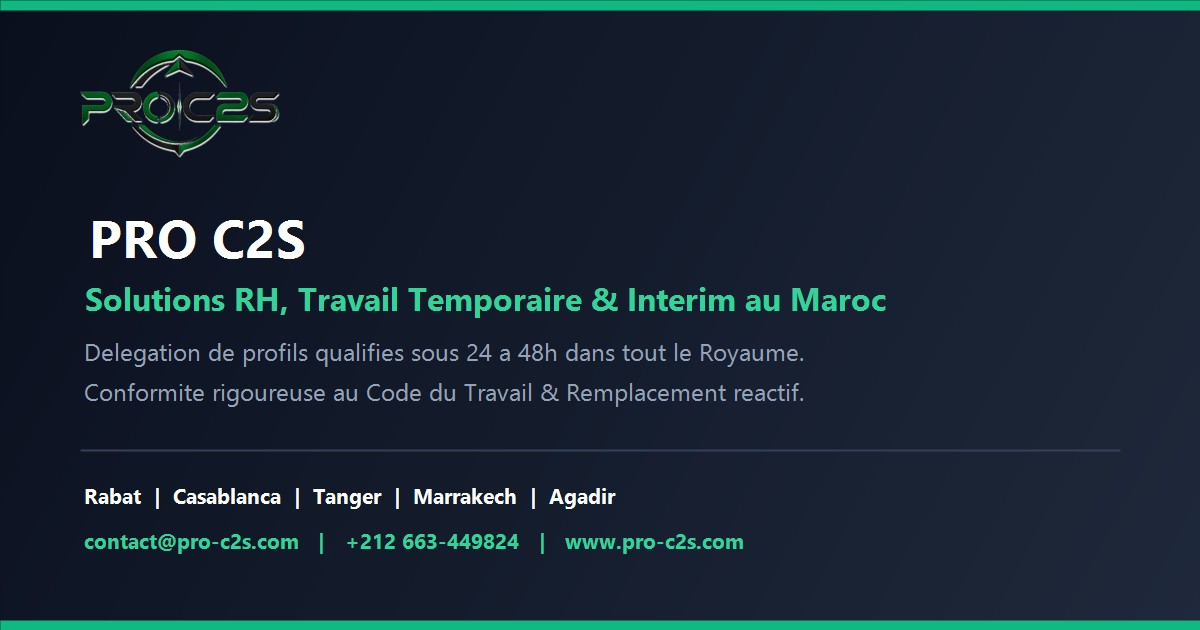
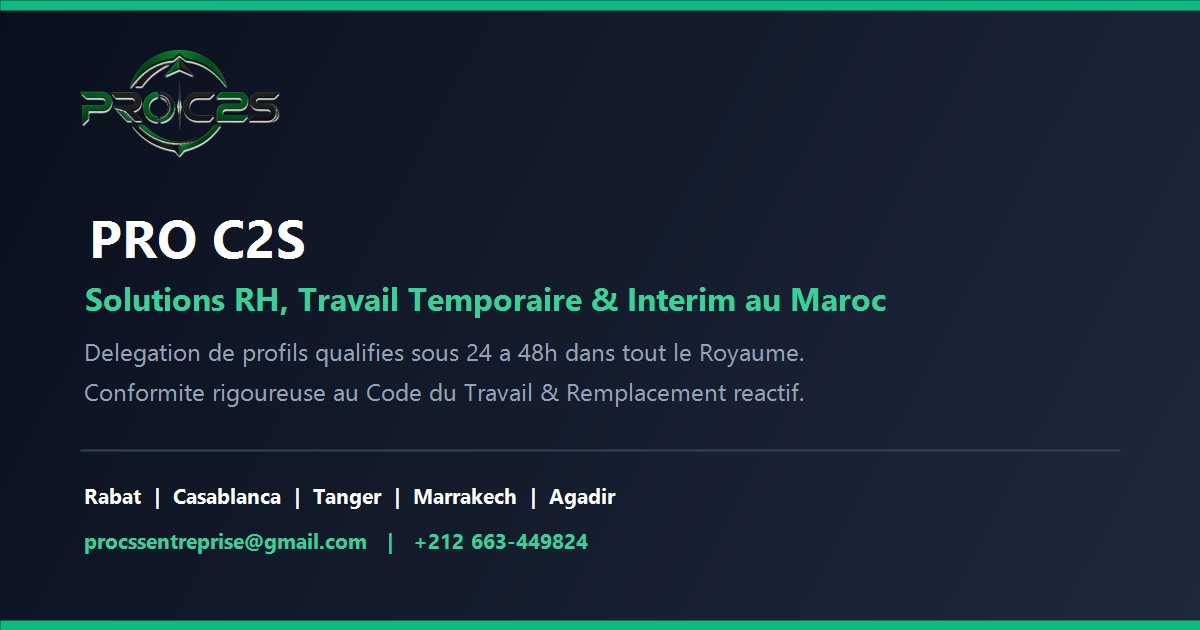
Correction exacte : retablissement de l'email officiel procssentreprise@gmail.com et harmonisation des horaires 08h30 - 17h30 (Lun-Ven)

Changed region(s): [[0.0617, 0.8444, 0.6167, 0.8746]]

diff --git a/index.html b/index.html
@@ -54,7 +54,7 @@
       "image": "https://proo-c2s.github.io/proo-c2s/image/logo.png",
       "foundingDate": "2017",
       "telephone": "+212663449824",
-      "email": "contact@pro-c2s.com",
+      "email": "procssentreprise@gmail.com",
       "address": {
         "@type": "PostalAddress",
         "streetAddress": "Imm. 69, 4ème Étage, Appt 04, Av. Patrice Lumumba, Hassan",
@@ -1985,7 +1985,7 @@
             <h4 style="margin-top: 15px;" data-i18n="priv_h4">4. Services tiers</h4>
             <p data-i18n="priv_p4">Ce site fait appel à des services tiers : EmailJS (envoi du formulaire de contact), WhatsApp (échanges et envoi de CV), Google Maps et Google Fonts (affichage). Ces services peuvent déposer leurs propres cookies ou traiter votre adresse IP.</p>
             <h4 style="margin-top: 15px;" data-i18n="priv_h5">5. Vos droits</h4>
-            <p data-i18n="priv_p5">Conformément à la loi n° 09-08 relative à la protection des personnes physiques à l'égard du traitement des données à caractère personnel, vous disposez d'un droit d'accès, de rectification et d'opposition. Pour l'exercer, écrivez-nous à <a href="mailto:contact@pro-c2s.com">contact@pro-c2s.com</a>. Vous pouvez également saisir la CNDP (<a href="https://www.cndp.ma" target="_blank" rel="noopener noreferrer">www.cndp.ma</a>).</p>
+            <p data-i18n="priv_p5">Conformément à la loi n° 09-08 relative à la protection des personnes physiques à l'égard du traitement des données à caractère personnel, vous disposez d'un droit d'accès, de rectification et d'opposition. Pour l'exercer, écrivez-nous à <a href="mailto:procssentreprise@gmail.com">procssentreprise@gmail.com</a>. Vous pouvez également saisir la CNDP (<a href="https://www.cndp.ma" target="_blank" rel="noopener noreferrer">www.cndp.ma</a>).</p>
         </div>
     </div>
 </div>
@@ -2036,7 +2036,7 @@
                         <span class="ecm-sep">/</span>
                         <a href="tel:+212663449824">06 63 44 98 24</a>
                     </div>
-                    <span class="ecm-card-sub" data-i18n="c_phone_hours"><i class="fa-regular fa-clock"></i> Lun - Ven : 08h30 - 18h00</span>
+                    <span class="ecm-card-sub" data-i18n="c_phone_hours"><i class="fa-regular fa-clock"></i> Lun - Ven : 08h30 - 17h30</span>
                 </div>
             </div>
 
@@ -2048,7 +2048,7 @@
                 <div class="ecm-card-body">
                     <span class="ecm-card-label" data-i18n="c_email">Courriel Officiel</span>
                     <div class="ecm-card-val ecm-email-val">
-                        <a href="mailto:contact@pro-c2s.com">contact@pro-c2s.com</a>
+                        <a href="mailto:procssentreprise@gmail.com">procssentreprise@gmail.com</a>
                     </div>
                     <span class="ecm-card-sub" data-i18n="c_email_sub"><i class="fa-solid fa-bolt"></i> Réponse sous 24h ouvrées</span>
                 </div>
@@ -2237,7 +2237,7 @@
             <h4 data-i18n="f_contact">Contact</h4>
             <p><i class="fa-solid fa-location-dot"></i> Imm. 69, 4ème Étage, Hassan - Rabat</p>
             <p><i class="fa-solid fa-phone"></i> <a href="tel:+212520704830">05 20 70 48 30</a> / <a href="tel:+212663449824">06 63 44 98 24</a></p>
-            <p><i class="fa-solid fa-envelope"></i> <a href="mailto:contact@pro-c2s.com">contact@pro-c2s.com</a></p>
+            <p><i class="fa-solid fa-envelope"></i> <a href="mailto:procssentreprise@gmail.com">procssentreprise@gmail.com</a></p>
         </div>
     </div>
     <div class="copyright">
@@ -2284,7 +2284,7 @@
         "c_addr": "Adresse",
         "c_addr_val_short": "Imm. 69, Av. Patrice Lumumba, Hassan - Rabat",
         "c_phone": "Téléphone",
-        "c_phone_hours": "Lun - Ven : 08h30 - 18h00",
+        "c_phone_hours": "Lun - Ven : 08h30 - 17h30",
         "c_email": "Email",
         "c_email_sub": "Réponse sous 24h",
         "c_website": "Site web",
@@ -2638,7 +2638,7 @@
         "priv_h4": "4. Services tiers",
         "priv_p4": "Ce site fait appel à des services tiers : EmailJS (envoi du formulaire de contact), WhatsApp (échanges et envoi de CV), Google Maps et Google Fonts (affichage). Ces services peuvent déposer leurs propres cookies ou traiter votre adresse IP.",
         "priv_h5": "5. Vos droits",
-        "priv_p5": "Conformément à la loi n° 09-08 relative à la protection des personnes physiques à l'égard du traitement des données à caractère personnel, vous disposez d'un droit d'accès, de rectification et d'opposition. Pour l'exercer, écrivez-nous à <a href=\"mailto:contact@pro-c2s.com\">contact@pro-c2s.com</a>. Vous pouvez également saisir la CNDP (<a href=\"https://www.cndp.ma\" target=\"_blank\" rel=\"noopener noreferrer\">www.cndp.ma</a>).",
+        "priv_p5": "Conformément à la loi n° 09-08 relative à la protection des personnes physiques à l'égard du traitement des données à caractère personnel, vous disposez d'un droit d'accès, de rectification et d'opposition. Pour l'exercer, écrivez-nous à <a href=\"mailto:procssentreprise@gmail.com\">procssentreprise@gmail.com</a>. Vous pouvez également saisir la CNDP (<a href=\"https://www.cndp.ma\" target=\"_blank\" rel=\"noopener noreferrer\">www.cndp.ma</a>).",
         "cv_m_title": "Espace Recrutement & CV",
         "cv_m_sub": "Enregistrement direct dans la Base de Recrutement RH",
         "cv_m_name_lbl": "Nom et prénom *",
@@ -3047,7 +3047,7 @@
         "priv_h4": "4. Third-Party Services",
         "priv_p4": "This website integrates third-party tools: EmailJS (secure form submission), WhatsApp (direct messaging & CV submission), Google Maps, and Google Fonts. These services may place technical cookies or process standard IP requests.",
         "priv_h5": "5. Your Data Rights",
-        "priv_p5": "Pursuant to Moroccan Law No. 09-08 on personal data protection, you retain full rights of access, rectification, and objection regarding your personal information. To exercise these rights, please email us at <a href=\"mailto:contact@pro-c2s.com\">contact@pro-c2s.com</a>. You may also contact the Moroccan National Data Protection Commission (<a href=\"https://www.cndp.ma\" target=\"_blank\" rel=\"noopener noreferrer\">www.cndp.ma</a>).",
+        "priv_p5": "Pursuant to Moroccan Law No. 09-08 on personal data protection, you retain full rights of access, rectification, and objection regarding your personal information. To exercise these rights, please email us at <a href=\"mailto:procssentreprise@gmail.com\">procssentreprise@gmail.com</a>. You may also contact the Moroccan National Data Protection Commission (<a href=\"https://www.cndp.ma\" target=\"_blank\" rel=\"noopener noreferrer\">www.cndp.ma</a>).",
         "cv_m_title": "Recruitment Portal & CV Drop",
         "cv_m_sub": "Direct registration into our Central HR Recruitment Database",
         "cv_m_name_lbl": "Full Name *",

diff --git a/mentions-legales.html b/mentions-legales.html
@@ -117,8 +117,8 @@
         <tr><th data-i18n="t_agr">Agrément Travail Temporaire</th><td><strong style="color:#047857;">N° 2017/RH/482</strong> (Ministère de l'Inclusion Économique, de la Petite Entreprise, de l'Emploi et des Compétences)</td></tr>
         <tr><th data-i18n="t_siege">Siège social</th><td>Imm. 69, 4ème Étage, Appt 04, Av. Patrice Lumumba, Hassan - Rabat, Maroc</td></tr>
         <tr><th data-i18n="t_tel">Téléphone standard</th><td><a href="tel:+212520704830">+212 (0) 5 20 70 48 30</a> / <a href="tel:+212663449824">+212 (0) 6 63 44 98 24</a></td></tr>
-        <tr><th data-i18n="t_email">Courriel professionnel</th><td><a href="mailto:contact@pro-c2s.com">contact@pro-c2s.com</a></td></tr>
-        <tr><th data-i18n="t_horaires">Horaires d'ouverture</th><td>Lundi – Vendredi : 08h30 – 18h00 | Samedi : 09h00 – 13h00</td></tr>
+        <tr><th data-i18n="t_email">Courriel professionnel</th><td><a href="mailto:procssentreprise@gmail.com">procssentreprise@gmail.com</a></td></tr>
+        <tr><th data-i18n="t_horaires">Horaires d'ouverture</th><td>Lundi – Vendredi : 08h30 – 17h30 | Samedi : 09h00 – 13h00</td></tr>
     </table>
 
     <h2 data-i18n="sec2_title"><i class="fa-solid fa-server"></i> 2. Hébergement du site</h2>
@@ -143,7 +143,7 @@
     </ul>
 
     <p data-i18n="cndp_droits"><strong>Vos droits (Articles 7, 8 et 9 de la Loi 09-08) :</strong></p>
-    <p data-i18n="cndp_droits_desc">Vous disposez à tout moment d'un droit individuel d'accès, d'information, de rectification et d'opposition au traitement de vos données personnelles. Vous pouvez exercer ces droits simplement en adressant un email accompagné d'un justificatif d'identité à : <a href="mailto:contact@pro-c2s.com"><strong>contact@pro-c2s.com</strong></a> ou par courrier recommandé au siège social de PRO C2S.</p>
+    <p data-i18n="cndp_droits_desc">Vous disposez à tout moment d'un droit individuel d'accès, d'information, de rectification et d'opposition au traitement de vos données personnelles. Vous pouvez exercer ces droits simplement en adressant un email accompagné d'un justificatif d'identité à : <a href="mailto:procssentreprise@gmail.com"><strong>procssentreprise@gmail.com</strong></a> ou par courrier recommandé au siège social de PRO C2S.</p>
     <p data-i18n="cndp_reclam">Vous pouvez également vous adresser à la <strong>Commission Nationale de contrôle de la protection des Données à caractère Personnel (CNDP)</strong> via son portail officiel : <a href="https://www.cndp.ma" target="_blank" rel="noopener noreferrer">www.cndp.ma</a>.</p>
 
     <h2 id="politique-confidentialite" data-i18n="sec5_title"><i class="fa-solid fa-cookie-bite"></i> 5. Politique de Cookies & Confidentialité</h2>
@@ -201,7 +201,7 @@
             cndp_duree_cv: "Données des candidats & CVs : 24 mois maximum à compter de la date de réception ou du dernier contact.",
             cndp_duree_devis: "Données clients & devis : 36 mois maximum à compter de la fin de la relation commerciale.",
             cndp_droits: "Vos droits (Loi 09-08) :",
-            cndp_droits_desc: "Droit d'accès, de rectification et d'opposition en écrivant avec copie de pièce d'identité à contact@pro-c2s.com.",
+            cndp_droits_desc: "Droit d'accès, de rectification et d'opposition en écrivant avec copie de pièce d'identité à procssentreprise@gmail.com.",
             cndp_reclam: "Vous pouvez également saisir la CNDP (Commission Nationale de contrôle de la protection des Données à caractère Personnel) : www.cndp.ma.",
             sec5_title: "5. Politique de Cookies & Confidentialité",
             sec5_p1: "Le site utilise uniquement des cookies fonctionnels essentiels et des statistiques anonymisées. Aucun partage de données à des fins publicitaires n'est effectué.",
@@ -250,7 +250,7 @@
             cndp_duree_cv: "Applicant records & CVs: Strictly retained up to 24 months from submission or last contact.",
             cndp_duree_devis: "Client inquiries & quotes: Strictly retained up to 36 months.",
             cndp_droits: "Your Rights (Law 09-08):",
-            cndp_droits_desc: "Right to access, modify, and delete your data by writing with ID proof to contact@pro-c2s.com.",
+            cndp_droits_desc: "Right to access, modify, and delete your data by writing with ID proof to procssentreprise@gmail.com.",
             cndp_reclam: "Complaints may also be filed with CNDP (National Commission for Personal Data Protection): www.cndp.ma.",
             sec5_title: "5. Cookie & Privacy Policy",
             sec5_p1: "The website uses strictly necessary functional cookies and anonymized performance statistics.",

diff --git a/offres/agent-accueil.html b/offres/agent-accueil.html
@@ -184,7 +184,7 @@
 
                 <div class="job-card-box" style="background:#f0fdf4;border-color:#bbf7d0;">
                     <h3 style="font-size:15px;color:#166534;margin-bottom:8px;font-weight:700;"><i class="fa-solid fa-headset"></i> Service Recrutement PRO C2S</h3>
-                    <p style="font-size:13px;color:#166534;margin-bottom:6px;">Lundi – Vendredi : 08h30 – 18h00</p>
+                    <p style="font-size:13px;color:#166534;margin-bottom:6px;">Lundi – Vendredi : 08h30 – 17h30</p>
                     <p style="font-size:13px;color:#166534;font-weight:700;">Tél : +212 (0) 5 20 70 48 30 / +212 (0) 6 63 44 98 24</p>
                 </div>
             </div>
@@ -209,8 +209,8 @@
             <div class="footer-links">
                 <h4>Contact Direct</h4>
                 <p><i class="fa-solid fa-phone"></i> +212 (0) 5 20 70 48 30 / +212 (0) 6 63 44 98 24</p>
-                <p><i class="fa-solid fa-envelope"></i> contact@pro-c2s.com</p>
-                <p><i class="fa-solid fa-clock"></i> Lun - Ven : 08h30 - 18h00</p>
+                <p><i class="fa-solid fa-envelope"></i> procssentreprise@gmail.com</p>
+                <p><i class="fa-solid fa-clock"></i> Lun - Ven : 08h30 - 17h30</p>
                 <p><i class="fa-solid fa-location-dot"></i> Imm. 69, Av. Patrice Lumumba, Hassan - Rabat</p>
             </div>
         </div>

diff --git a/offres/agent-brancardage.html b/offres/agent-brancardage.html
@@ -184,7 +184,7 @@
 
                 <div class="job-card-box" style="background:#f0fdf4;border-color:#bbf7d0;">
                     <h3 style="font-size:15px;color:#166534;margin-bottom:8px;font-weight:700;"><i class="fa-solid fa-headset"></i> Service Recrutement PRO C2S</h3>
-                    <p style="font-size:13px;color:#166534;margin-bottom:6px;">Lundi – Vendredi : 08h30 – 18h00</p>
+                    <p style="font-size:13px;color:#166534;margin-bottom:6px;">Lundi – Vendredi : 08h30 – 17h30</p>
                     <p style="font-size:13px;color:#166534;font-weight:700;">Tél : +212 (0) 5 20 70 48 30 / +212 (0) 6 63 44 98 24</p>
                 </div>
             </div>
@@ -209,8 +209,8 @@
             <div class="footer-links">
                 <h4>Contact Direct</h4>
                 <p><i class="fa-solid fa-phone"></i> +212 (0) 5 20 70 48 30 / +212 (0) 6 63 44 98 24</p>
-                <p><i class="fa-solid fa-envelope"></i> contact@pro-c2s.com</p>
-                <p><i class="fa-solid fa-clock"></i> Lun - Ven : 08h30 - 18h00</p>
+                <p><i class="fa-solid fa-envelope"></i> procssentreprise@gmail.com</p>
+                <p><i class="fa-solid fa-clock"></i> Lun - Ven : 08h30 - 17h30</p>
                 <p><i class="fa-solid fa-location-dot"></i> Imm. 69, Av. Patrice Lumumba, Hassan - Rabat</p>
             </div>
         </div>

diff --git a/offres/assistant-administratif.html b/offres/assistant-administratif.html
@@ -184,7 +184,7 @@
 
                 <div class="job-card-box" style="background:#f0fdf4;border-color:#bbf7d0;">
                     <h3 style="font-size:15px;color:#166534;margin-bottom:8px;font-weight:700;"><i class="fa-solid fa-headset"></i> Service Recrutement PRO C2S</h3>
-                    <p style="font-size:13px;color:#166534;margin-bottom:6px;">Lundi – Vendredi : 08h30 – 18h00</p>
+                    <p style="font-size:13px;color:#166534;margin-bottom:6px;">Lundi – Vendredi : 08h30 – 17h30</p>
                     <p style="font-size:13px;color:#166534;font-weight:700;">Tél : +212 (0) 5 20 70 48 30 / +212 (0) 6 63 44 98 24</p>
                 </div>
             </div>
@@ -209,8 +209,8 @@
             <div class="footer-links">
                 <h4>Contact Direct</h4>
                 <p><i class="fa-solid fa-phone"></i> +212 (0) 5 20 70 48 30 / +212 (0) 6 63 44 98 24</p>
-                <p><i class="fa-solid fa-envelope"></i> contact@pro-c2s.com</p>
-                <p><i class="fa-solid fa-clock"></i> Lun - Ven : 08h30 - 18h00</p>
+                <p><i class="fa-solid fa-envelope"></i> procssentreprise@gmail.com</p>
+                <p><i class="fa-solid fa-clock"></i> Lun - Ven : 08h30 - 17h30</p>
                 <p><i class="fa-solid fa-location-dot"></i> Imm. 69, Av. Patrice Lumumba, Hassan - Rabat</p>
             </div>
         </div>

diff --git a/offres/chauffeur-professionnel.html b/offres/chauffeur-professionnel.html
@@ -184,7 +184,7 @@
 
                 <div class="job-card-box" style="background:#f0fdf4;border-color:#bbf7d0;">
                     <h3 style="font-size:15px;color:#166534;margin-bottom:8px;font-weight:700;"><i class="fa-solid fa-headset"></i> Service Recrutement PRO C2S</h3>
-                    <p style="font-size:13px;color:#166534;margin-bottom:6px;">Lundi – Vendredi : 08h30 – 18h00</p>
+                    <p style="font-size:13px;color:#166534;margin-bottom:6px;">Lundi – Vendredi : 08h30 – 17h30</p>
                     <p style="font-size:13px;color:#166534;font-weight:700;">Tél : +212 (0) 5 20 70 48 30 / +212 (0) 6 63 44 98 24</p>
                 </div>
             </div>
@@ -209,8 +209,8 @@
             <div class="footer-links">
                 <h4>Contact Direct</h4>
                 <p><i class="fa-solid fa-phone"></i> +212 (0) 5 20 70 48 30 / +212 (0) 6 63 44 98 24</p>
-                <p><i class="fa-solid fa-envelope"></i> contact@pro-c2s.com</p>
-                <p><i class="fa-solid fa-clock"></i> Lun - Ven : 08h30 - 18h00</p>
+                <p><i class="fa-solid fa-envelope"></i> procssentreprise@gmail.com</p>
+                <p><i class="fa-solid fa-clock"></i> Lun - Ven : 08h30 - 17h30</p>
                 <p><i class="fa-solid fa-location-dot"></i> Imm. 69, Av. Patrice Lumumba, Hassan - Rabat</p>
             </div>
         </div>

diff --git a/offres/gestionnaire-paie.html b/offres/gestionnaire-paie.html
@@ -184,7 +184,7 @@
 
                 <div class="job-card-box" style="background:#f0fdf4;border-color:#bbf7d0;">
                     <h3 style="font-size:15px;color:#166534;margin-bottom:8px;font-weight:700;"><i class="fa-solid fa-headset"></i> Service Recrutement PRO C2S</h3>
-                    <p style="font-size:13px;color:#166534;margin-bottom:6px;">Lundi – Vendredi : 08h30 – 18h00</p>
+                    <p style="font-size:13px;color:#166534;margin-bottom:6px;">Lundi – Vendredi : 08h30 – 17h30</p>
                     <p style="font-size:13px;color:#166534;font-weight:700;">Tél : +212 (0) 5 20 70 48 30 / +212 (0) 6 63 44 98 24</p>
                 </div>
             </div>
@@ -209,8 +209,8 @@
             <div class="footer-links">
                 <h4>Contact Direct</h4>
                 <p><i class="fa-solid fa-phone"></i> +212 (0) 5 20 70 48 30 / +212 (0) 6 63 44 98 24</p>
-                <p><i class="fa-solid fa-envelope"></i> contact@pro-c2s.com</p>
-                <p><i class="fa-solid fa-clock"></i> Lun - Ven : 08h30 - 18h00</p>
+                <p><i class="fa-solid fa-envelope"></i> procssentreprise@gmail.com</p>
+                <p><i class="fa-solid fa-clock"></i> Lun - Ven : 08h30 - 17h30</p>
                 <p><i class="fa-solid fa-location-dot"></i> Imm. 69, Av. Patrice Lumumba, Hassan - Rabat</p>
             </div>
         </div>

diff --git a/offres/maitre-nageur-sauveteur.html b/offres/maitre-nageur-sauveteur.html
@@ -184,7 +184,7 @@
 
                 <div class="job-card-box" style="background:#f0fdf4;border-color:#bbf7d0;">
                     <h3 style="font-size:15px;color:#166534;margin-bottom:8px;font-weight:700;"><i class="fa-solid fa-headset"></i> Service Recrutement PRO C2S</h3>
-                    <p style="font-size:13px;color:#166534;margin-bottom:6px;">Lundi – Vendredi : 08h30 – 18h00</p>
+                    <p style="font-size:13px;color:#166534;margin-bottom:6px;">Lundi – Vendredi : 08h30 – 17h30</p>
                     <p style="font-size:13px;color:#166534;font-weight:700;">Tél : +212 (0) 5 20 70 48 30 / +212 (0) 6 63 44 98 24</p>
                 </div>
             </div>
@@ -209,8 +209,8 @@
             <div class="footer-links">
                 <h4>Contact Direct</h4>
                 <p><i class="fa-solid fa-phone"></i> +212 (0) 5 20 70 48 30 / +212 (0) 6 63 44 98 24</p>
-                <p><i class="fa-solid fa-envelope"></i> contact@pro-c2s.com</p>
-                <p><i class="fa-solid fa-clock"></i> Lun - Ven : 08h30 - 18h00</p>
+                <p><i class="fa-solid fa-envelope"></i> procssentreprise@gmail.com</p>
+                <p><i class="fa-solid fa-clock"></i> Lun - Ven : 08h30 - 17h30</p>
                 <p><i class="fa-solid fa-location-dot"></i> Imm. 69, Av. Patrice Lumumba, Hassan - Rabat</p>
             </div>
         </div>

diff --git a/offres/moniteur-sport.html b/offres/moniteur-sport.html
@@ -184,7 +184,7 @@
 
                 <div class="job-card-box" style="background:#f0fdf4;border-color:#bbf7d0;">
                     <h3 style="font-size:15px;color:#166534;margin-bottom:8px;font-weight:700;"><i class="fa-solid fa-headset"></i> Service Recrutement PRO C2S</h3>
-                    <p style="font-size:13px;color:#166534;margin-bottom:6px;">Lundi – Vendredi : 08h30 – 18h00</p>
+                    <p style="font-size:13px;color:#166534;margin-bottom:6px;">Lundi – Vendredi : 08h30 – 17h30</p>
                     <p style="font-size:13px;color:#166534;font-weight:700;">Tél : +212 (0) 5 20 70 48 30 / +212 (0) 6 63 44 98 24</p>
                 </div>
             </div>
@@ -209,8 +209,8 @@
             <div class="footer-links">
                 <h4>Contact Direct</h4>
                 <p><i class="fa-solid fa-phone"></i> +212 (0) 5 20 70 48 30 / +212 (0) 6 63 44 98 24</p>
-                <p><i class="fa-solid fa-envelope"></i> contact@pro-c2s.com</p>
-                <p><i class="fa-solid fa-clock"></i> Lun - Ven : 08h30 - 18h00</p>
+                <p><i class="fa-solid fa-envelope"></i> procssentreprise@gmail.com</p>
+                <p><i class="fa-solid fa-clock"></i> Lun - Ven : 08h30 - 17h30</p>
                 <p><i class="fa-solid fa-location-dot"></i> Imm. 69, Av. Patrice Lumumba, Hassan - Rabat</p>
             </div>
         </div>

diff --git a/offres/responsable-rh.html b/offres/responsable-rh.html
@@ -184,7 +184,7 @@
 
                 <div class="job-card-box" style="background:#f0fdf4;border-color:#bbf7d0;">
                     <h3 style="font-size:15px;color:#166534;margin-bottom:8px;font-weight:700;"><i class="fa-solid fa-headset"></i> Service Recrutement PRO C2S</h3>
-                    <p style="font-size:13px;color:#166534;margin-bottom:6px;">Lundi – Vendredi : 08h30 – 18h00</p>
+                    <p style="font-size:13px;color:#166534;margin-bottom:6px;">Lundi – Vendredi : 08h30 – 17h30</p>
                     <p style="font-size:13px;color:#166534;font-weight:700;">Tél : +212 (0) 5 20 70 48 30 / +212 (0) 6 63 44 98 24</p>
                 </div>
             </div>
@@ -209,8 +209,8 @@
             <div class="footer-links">
                 <h4>Contact Direct</h4>
                 <p><i class="fa-solid fa-phone"></i> +212 (0) 5 20 70 48 30 / +212 (0) 6 63 44 98 24</p>
-                <p><i class="fa-solid fa-envelope"></i> contact@pro-c2s.com</p>
-                <p><i class="fa-solid fa-clock"></i> Lun - Ven : 08h30 - 18h00</p>
+                <p><i class="fa-solid fa-envelope"></i> procssentreprise@gmail.com</p>
+                <p><i class="fa-solid fa-clock"></i> Lun - Ven : 08h30 - 17h30</p>
                 <p><i class="fa-solid fa-location-dot"></i> Imm. 69, Av. Patrice Lumumba, Hassan - Rabat</p>
             </div>
         </div>

diff --git a/offres/support-applicatif-it.html b/offres/support-applicatif-it.html
@@ -184,7 +184,7 @@
 
                 <div class="job-card-box" style="background:#f0fdf4;border-color:#bbf7d0;">
                     <h3 style="font-size:15px;color:#166534;margin-bottom:8px;font-weight:700;"><i class="fa-solid fa-headset"></i> Service Recrutement PRO C2S</h3>
-                    <p style="font-size:13px;color:#166534;margin-bottom:6px;">Lundi – Vendredi : 08h30 – 18h00</p>
+                    <p style="font-size:13px;color:#166534;margin-bottom:6px;">Lundi – Vendredi : 08h30 – 17h30</p>
                     <p style="font-size:13px;color:#166534;font-weight:700;">Tél : +212 (0) 5 20 70 48 30 / +212 (0) 6 63 44 98 24</p>
                 </div>
             </div>
@@ -209,8 +209,8 @@
             <div class="footer-links">
                 <h4>Contact Direct</h4>
                 <p><i class="fa-solid fa-phone"></i> +212 (0) 5 20 70 48 30 / +212 (0) 6 63 44 98 24</p>
-                <p><i class="fa-solid fa-envelope"></i> contact@pro-c2s.com</p>
-                <p><i class="fa-solid fa-clock"></i> Lun - Ven : 08h30 - 18h00</p>
+                <p><i class="fa-solid fa-envelope"></i> procssentreprise@gmail.com</p>
+                <p><i class="fa-solid fa-clock"></i> Lun - Ven : 08h30 - 17h30</p>
                 <p><i class="fa-solid fa-location-dot"></i> Imm. 69, Av. Patrice Lumumba, Hassan - Rabat</p>
             </div>
         </div>

diff --git a/informatique.html b/informatique.html
@@ -429,8 +429,8 @@
             <div class="footer-links">
                 <h4 data-i18n="footer_col_contact">Contact Direct</h4>
                 <p><i class="fa-solid fa-phone"></i> <a href="tel:+212520704830">+212 (0) 5 20 70 48 30</a> / <a href="tel:+212663449824">+212 (0) 6 63 44 98 24</a></p>
-                <p><i class="fa-solid fa-envelope"></i> <a href="mailto:contact@pro-c2s.com">contact@pro-c2s.com</a></p>
-                <p><i class="fa-solid fa-clock"></i> Lun - Ven : 08h30 - 18h00 | Sam : 09h00 - 13h00</p>
+                <p><i class="fa-solid fa-envelope"></i> <a href="mailto:procssentreprise@gmail.com">procssentreprise@gmail.com</a></p>
+                <p><i class="fa-solid fa-clock"></i> Lun - Ven : 08h30 - 17h30 | Sam : 09h00 - 13h00</p>
                 <p><i class="fa-solid fa-location-dot"></i> Imm. 69, Av. Patrice Lumumba, Rabat</p>
             </div>
         </div>
